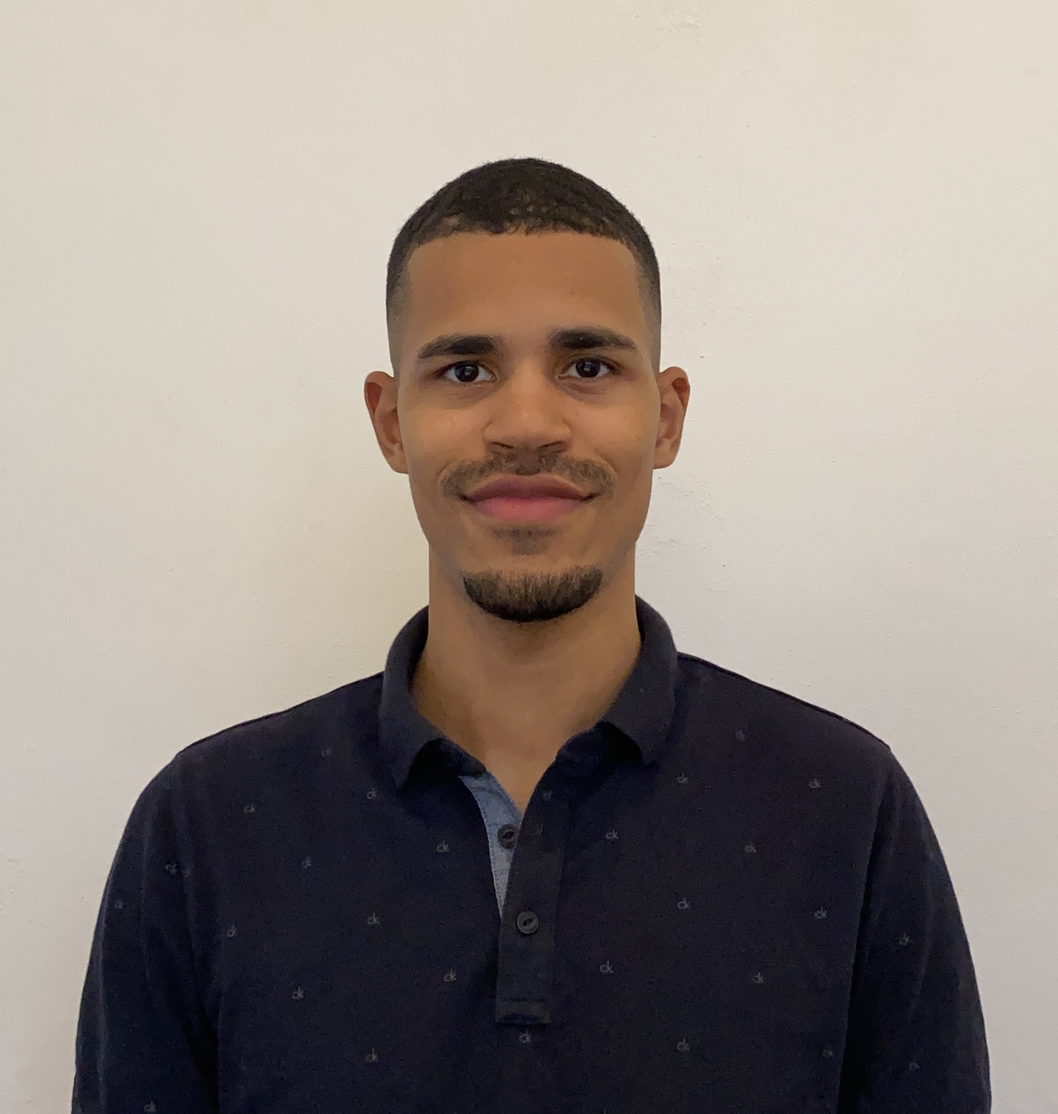
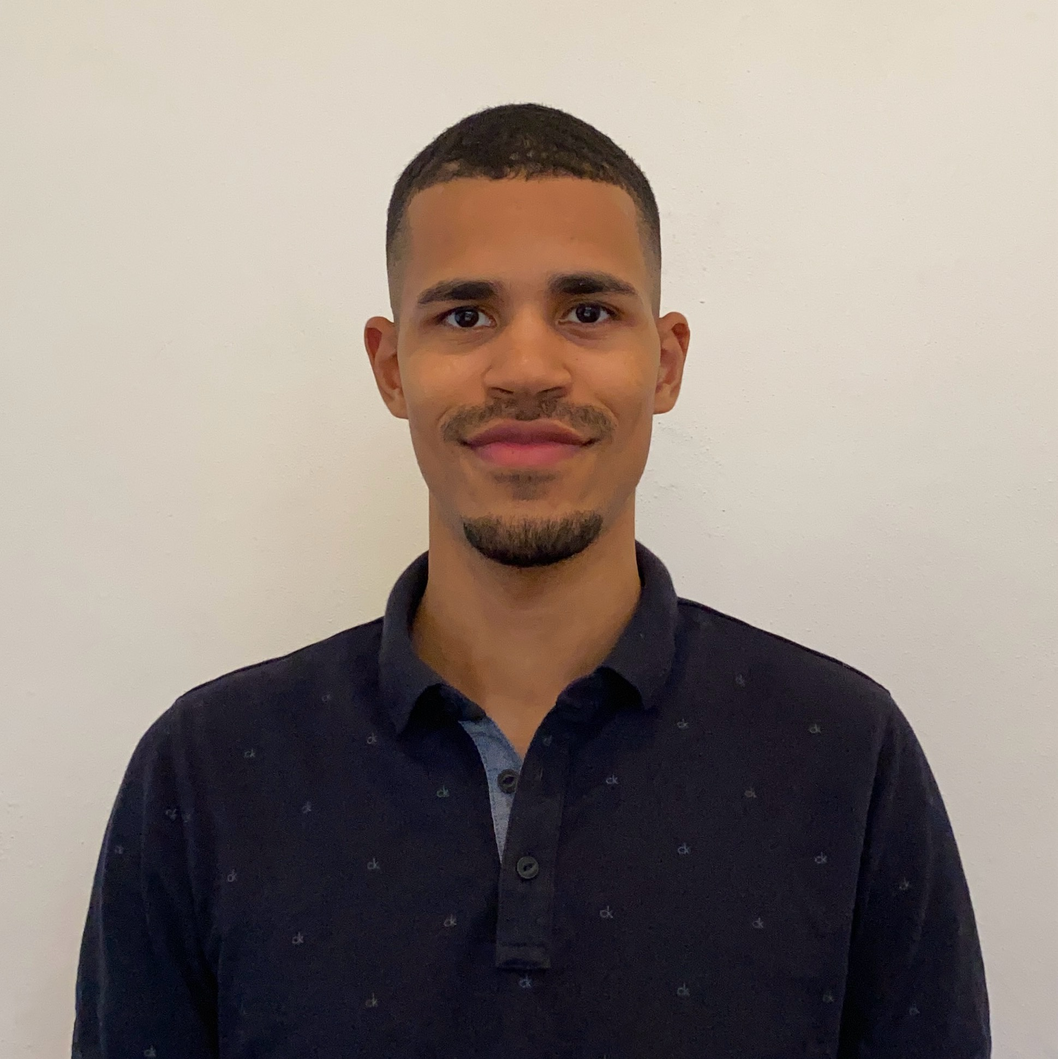
submit last photo and change paths or files from jupyter notebook

diff --git a/main.py b/main.py
@@ -71,7 +71,7 @@ def main():
         with col1:
             st.image("images/eric.jpg", caption="Eric Banzuzi")
         with col2:
-            st.image("images/dog.jpg", caption="Rosamelia Carioni")
+            st.image("images/meli.jpg", caption="Rosamelia Carioni")
         with col3:
             st.image("images/kathi.jpg", caption="Katharina Deckenbach")
 
